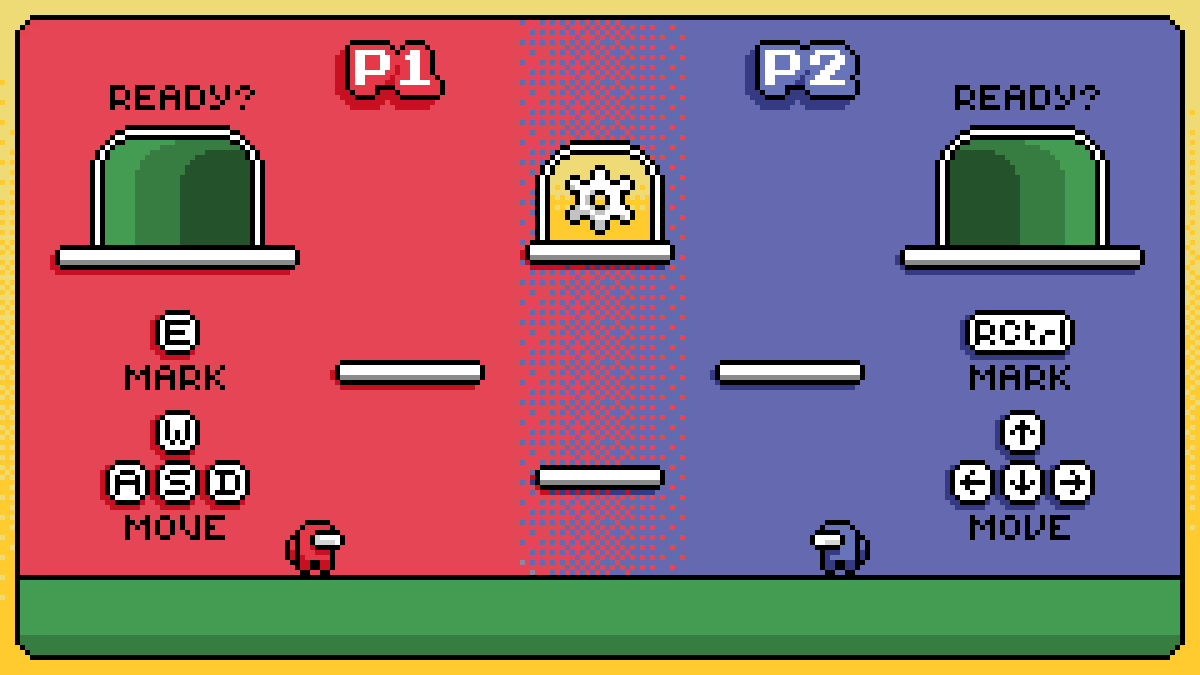
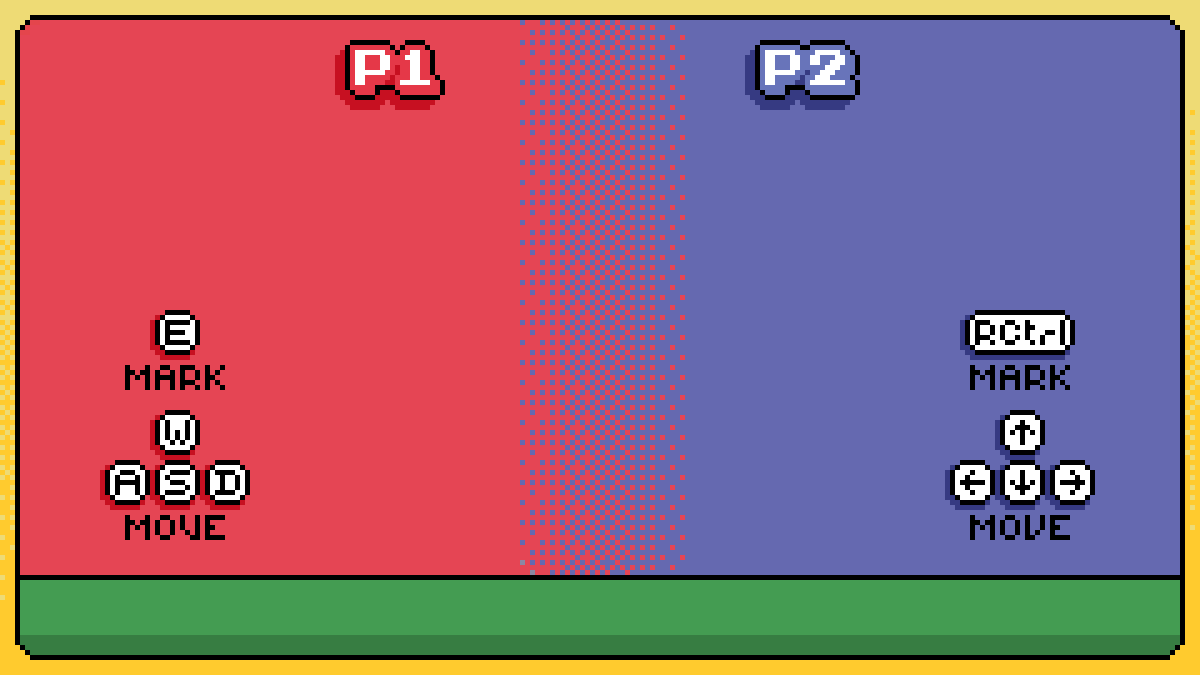
New Version with smaller dimensions

diff --git a/TicTacToe.py b/TicTacToe.py
@@ -8,16 +8,16 @@ import os
 pygame.init()
 
 # Set up the game window
-width, height = 1920, 1080
+width, height = 1200, 675
 screen = pygame.display.set_mode((width, height))
 pygame.display.set_caption("Up You Go! Xs and Os - Tic Tac Toe")
 
 FPS = 60
-PLAYER_VEL = 7
+PLAYER_VEL = 4
 
 
 class Player1(pygame.sprite.Sprite):
-    GRAVITY = 1.2
+    GRAVITY = 1
 
     def __init__(self, x, y, width, height):
         super().__init__()
@@ -47,7 +47,7 @@ class Player1(pygame.sprite.Sprite):
             self.direction = "right"
 
     def jump(self):
-        self.y_vel = -self.GRAVITY * 10
+        self.y_vel = -self.GRAVITY * 7
         self.jump_count += 1
         if self.jump_count == 1:
             self.fall_count = 0
@@ -63,9 +63,7 @@ class Player1(pygame.sprite.Sprite):
         self.update()
 
     def update(self):
-        self.image = pygame.image.load("redplayer.png").convert_alpha()
-        self.image = pygame.transform.scale(
-            self.image, (self.width, self.height))
+        self.image = pygame.image.load(join("Images", "Items", "p1.png")).convert_alpha()
         if self.direction == "left":
             self.image = pygame.transform.flip(self.image, True, False)
 
@@ -86,7 +84,7 @@ class Player1(pygame.sprite.Sprite):
 
 
 class Player2(pygame.sprite.Sprite):
-    GRAVITY = 1.2
+    GRAVITY = 1
 
     def __init__(self, x, y, width, height):
         super().__init__()
@@ -116,7 +114,7 @@ class Player2(pygame.sprite.Sprite):
             self.direction = "right"
 
     def jump(self):
-        self.y_vel = -self.GRAVITY * 10
+        self.y_vel = -self.GRAVITY * 7
         self.jump_count += 1
         if self.jump_count == 1:
             self.fall_count = 0
@@ -132,9 +130,7 @@ class Player2(pygame.sprite.Sprite):
         self.update()
 
     def update(self):
-        self.image = pygame.image.load("blueplayer.png").convert_alpha()
-        self.image = pygame.transform.scale(
-            self.image, (self.width, self.height))
+        self.image = pygame.image.load(join("Images", "Items", "p2.png")).convert_alpha()
         if self.direction == "right":
             self.image = pygame.transform.flip(self.image, True, False)
 
@@ -160,7 +156,7 @@ class object(pygame.sprite.Sprite):
         self.name = name
         self.rect = pygame.Rect(x, y, width, height)
         self.image = pygame.image.load(
-            join("Images", "Lobby", self.name)).convert_alpha()
+            join("Images", "Items", self.name)).convert_alpha()
         self.width = width
         self.height = height
         self.mask = pygame.mask.from_surface(self.image)
@@ -176,7 +172,7 @@ class platform(pygame.sprite.Sprite):
         super().__init__()
         self.name = name
         self.image = pygame.image.load(
-            join("Images", "game", self.name)).convert_alpha()
+            join("Images", "Items", self.name)).convert_alpha()
         self.rect = self.image.get_rect(topleft=(x, y))
         self.mask = pygame.mask.from_surface(self.image)
 
@@ -188,7 +184,7 @@ class grid(pygame.sprite.Sprite):
     def __init__(self, x, y):
         super().__init__()
         self.image = pygame.image.load(
-            join("Images", "game", "white_grid.png")).convert_alpha()
+            join("Images", "Items", "white.png")).convert_alpha()
         self.rect = self.image.get_rect(center=(x, y))
         self.slot = False
         self.chosen = False
@@ -198,16 +194,16 @@ class grid(pygame.sprite.Sprite):
         if self.slot:
             if self.state == "red":
                 self.image = pygame.image.load(
-                    join("Images", "game", "1.png")).convert_alpha()
+                    join("Images", "Items", "X.png")).convert_alpha()
             elif self.state == "blue":
                 self.image = pygame.image.load(
-                    join("Images", "game", "0.png")).convert_alpha()
+                    join("Images", "Items", "O.png")).convert_alpha()
         elif self.chosen:
             self.image = pygame.image.load(
-                join("Images", "game", "green_grid.png")).convert_alpha()
+                join("Images", "Items", "green.png")).convert_alpha()
         else:
             self.image = pygame.image.load(
-                join("Images", "game", "white_grid.png")).convert_alpha()
+                join("Images", "Items", "white.png")).convert_alpha()
 
         self.mask = pygame.mask.from_surface(self.image)
 
@@ -296,9 +292,9 @@ def handle_move2(p2, objects):
 
 
 def random_platform():
-    xcoords = [544, 712, 880, 1048, 1216]
-    ycoordsbot = [279, 447, 615, 783, 951]
-    ycoordstop = [120, 288, 456, 624,]
+    xcoords = [340, 445, 550, 655, 760]
+    ycoordsbot = [174, 279, 384, 489, 594]
+    ycoordstop = [75, 180, 285, 390]
 
     x_values = []
     y_values = []
@@ -320,24 +316,24 @@ def random_platform():
         x_values.append(x)
         y_values.append(y)
 
-    platform1 = platform("FLATFORM.png", x_values[0] - 22, y_values[0] - 13)
-    platform2 = platform("FLATFORM.png", x_values[1] - 22, y_values[0] - 13)
-    platform3 = platform("FLATFORM.png", x_values[2] - 22, y_values[1] - 13)
-    platform4 = platform("FLATFORM.png", x_values[3] - 22, y_values[1] - 13)
-    platform5 = platform("FLATFORM.png", x_values[4] - 22, y_values[2] - 13)
-    platform6 = platform("FLATFORM.png", x_values[5] - 22, y_values[2] - 13)
-    platform7 = platform("FLATFORM.png", x_values[6] - 22, y_values[3] - 13)
-    platform8 = platform("FLATFORM.png", x_values[7] - 22, y_values[3] - 13)
-    platform9 = platform("FLATFORM.png", x_values[8] - 22, y_values[4] - 13)
-    platform10 = platform("FLATFORM.png", x_values[9] - 22, y_values[4] - 13)
-    platform11 = platform("Vertical_Platforms.png",
-                          x_values[10] - 24, y_values[5] - 16)
-    platform12 = platform("Vertical_Platforms.png",
-                          x_values[11] - 24, y_values[6] - 16)
-    platform13 = platform("Vertical_Platforms.png",
-                          x_values[12] - 24, y_values[7] - 16)
-    platform14 = platform("Vertical_Platforms.png",
-                          x_values[13] - 24, y_values[8] - 16)
+    platform1 = platform("platform.png", x_values[0] - 10, y_values[0] - 9)
+    platform2 = platform("platform.png", x_values[1] - 10, y_values[0] - 9)
+    platform3 = platform("platform.png", x_values[2] - 10, y_values[1] - 9)
+    platform4 = platform("platform.png", x_values[3] - 10, y_values[1] - 9)
+    platform5 = platform("platform.png", x_values[4] - 10, y_values[2] - 9)
+    platform6 = platform("platform.png", x_values[5] - 10, y_values[2] - 9)
+    platform7 = platform("platform.png", x_values[6] - 10, y_values[3] - 9)
+    platform8 = platform("platform.png", x_values[7] - 10, y_values[3] - 9)
+    platform9 = platform("platform.png", x_values[8] - 10, y_values[4] - 9)
+    platform10 = platform("platform.png", x_values[9] - 10, y_values[4] - 9)
+    platform11 = platform("platform1.png",
+                          x_values[10] - 15, y_values[5] - 10)
+    platform12 = platform("platform1.png",
+                          x_values[11] - 15, y_values[6] - 10)
+    platform13 = platform("platform1.png",
+                          x_values[12] - 15, y_values[7] - 10)
+    platform14 = platform("platform1.png",
+                          x_values[13] - 15, y_values[8] - 10)
 
     game_platforms = [platform1, platform2, platform3, platform4, platform5, platform6,
                       platform7, platform8, platform9, platform10, platform11, platform12, platform13, platform14]
@@ -345,8 +341,8 @@ def random_platform():
 
 
 def grid_init():
-    xcoords = [544+80, 712+80, 880+80, 1048+80, 1216+80]
-    ycoords = [120+80, 288+80, 456+80, 624+80, 792+80]
+    xcoords = [340+48, 445+48, 550+48, 655+48, 760+48]
+    ycoords = [75+50, 180+50, 285+50, 390+50, 495+50]
     grids = []
 
     for x in xcoords:
@@ -411,40 +407,37 @@ def check_winner(grids):
     
 
 def Intro():
-    cube = pygame.image.load(join("Images", "Backgrounds", "splash1.png")).convert()
-    rect = cube.get_rect(center = (960, 540))
+    cube = pygame.image.load(join("Images", "Backgrounds", "cube.png")).convert_alpha()
+    rect = cube.get_rect(center = (600, 338))
     screen.blit(cube, rect)
     pygame.display.flip()
     pygame.time.wait(1500)
 
-    riverbytes = pygame.image.load(join("Images", "Backgrounds", "splash2.png")).convert()
-    rect2 = riverbytes.get_rect(center = (960, 540))
-    screen.blit(riverbytes, rect2)
+    riverbytes = pygame.image.load(join("Images", "Backgrounds", "splash.png")).convert()
+    screen.blit(riverbytes, (0,0))
     pygame.display.flip()
     pygame.time.wait(1500)
 
-    homescrn = pygame.image.load(
-        "Images\Backgrounds\Starting_Screen.png").convert()
+    homescrn = pygame.image.load(join("Images", "Backgrounds", "start.png")).convert()
     homescrn = pygame.transform.scale(homescrn, (width, height))
     screen.blit(homescrn, (0, 0))
     pygame.display.flip()
 
 
 def draw_lobby(p1, p2, platforms):
-    lobby = pygame.image.load("Images\Backgrounds\lobby1.png").convert()
+    lobby = pygame.image.load(join("Images", "Backgrounds", "lobby.png")).convert()
     lobby = pygame.transform.scale(lobby, (width, height))
     screen.blit(lobby, (0, 0))
 
-    rdy = pygame.image.load(join("Images", "Lobby", "rdy.png")).convert_alpha()
-    rdy = pygame.transform.scale(rdy, (216, 40))
+    rdy = pygame.image.load(join("Images", "Items", "ready.png")).convert_alpha()
 
     for plat in platforms:
         plat.draw()
 
     if p1.ready:
-        screen.blit(rdy, (176, 136))
+        screen.blit(rdy, (110, 85))
     if p2.ready:
-        screen.blit(rdy, (1528, 136))
+        screen.blit(rdy, (955, 85))
 
     p1.draw()
     p2.draw()
@@ -453,10 +446,10 @@ def draw_lobby(p1, p2, platforms):
 
 
 def lobby(p1, p2, objects, platforms, door1, door2):
-    p1.rect.x = 456
-    p1.rect.y = 832
-    p2.rect.x = 1000
-    p2.rect.y = 832
+    p1.rect.x = 285
+    p1.rect.y = 520
+    p2.rect.x = 810
+    p2.rect.y = 520
     while not (p1.ready) or not (p2.ready):
 
         for event in pygame.event.get():
@@ -481,7 +474,7 @@ def lobby(p1, p2, objects, platforms, door1, door2):
 
 
 def draw_game(p1, p2, platforms, grids):
-    game_bg = pygame.image.load("Images\Backgrounds\gamebg.png").convert()
+    game_bg = pygame.image.load(join("Images", "Backgrounds", "gamebg.png")).convert()
     game_bg = pygame.transform.scale(game_bg, (width, height))
     screen.blit(game_bg, (0, 0))
 
@@ -497,15 +490,15 @@ def draw_game(p1, p2, platforms, grids):
     pygame.display.update()
 
 def main_game(p1, p2):
-    p1.rect.x = 180
-    p1.rect.y = 850
-    p2.rect.x = 1614
-    p2.rect.y = 850
+    p1.rect.x = 110
+    p1.rect.y = 550
+    p2.rect.x = 1090
+    p2.rect.y = 550
     platforms = random_platform()
 
-    floor_game = pygame.Rect(0, 1048, 1920, 32)
-    wall_game = pygame.Rect(31, 0, 1, 1080)
-    wall2_game = pygame.Rect(1888, 0, 1, 1080)
+    floor_game = pygame.Rect(0, 655, 1200, 20)
+    wall_game = pygame.Rect(29, 0, 1, 675)
+    wall2_game = pygame.Rect(1170, 0, 1, 675)
     game_objects = [floor_game, wall_game, wall2_game]
 
     grids = grid_init()
@@ -553,11 +546,11 @@ def main_game(p1, p2):
         full_grids = grid_check(grids, p1, p2)
         draw_game(p1, p2, platforms, grids)
         if check_winner(grids):
-            if p1.turn:
+            if p2.turn:
                 p1win = pygame.image.load(join("Images", "Backgrounds", "p1win.png")).convert()
                 screen.blit(p1win, (0,0))
                 pygame.display.flip()
-            if p2.turn:
+            if p1.turn:
                 p2win = pygame.image.load(join("Images", "Backgrounds", "p2win.png")).convert()
                 screen.blit(p2win, (0,0))
                 pygame.display.flip()
@@ -577,22 +570,22 @@ def main(screen):
     clock = pygame.time.Clock()
     Intro()
 
-    p1 = Player1(456, 832, 96, 88)
-    p2 = Player2(1000, 832, 96, 88)
+    p1 = Player1(285, 520, 60, 55)
+    p2 = Player2(810, 520, 60, 55)
 
-    platform1 = object(856, 744, 206, 39, "platform.png")
-    platform2 = object(536, 576, 238, 39, "platform.png")
-    platform3 = object(1144, 576, 238, 39, "platform.png")
-    platform4 = object(88, 392, 391, 39, "platform.png")
-    platform5 = object(840, 384, 239, 39, "platform.png")
-    platform6 = object(1440, 392, 391, 39, "platform.png")
+    platform1 = object(535, 465, 129, 24, "lobplatform.png")
+    platform2 = object(335, 360, 149, 24, "lobplatform.png")
+    platform3 = object(715, 360, 149, 24, "lobplatform.png")
+    platform4 = object(55, 245, 244, 24, "lobplatform.png")
+    platform5 = object(525, 240, 149, 24, "lobplatform.png")
+    platform6 = object(900, 245, 244, 24, "lobplatform.png")
 
-    floor = pygame.Rect(0, 920, 1920, 160)
-    wall = pygame.Rect(24, 0, 1, 1080)
-    wall2 = pygame.Rect(1897, 0, 1, 1080)
+    floor = pygame.Rect(0, 575, 1200, 100)
+    wall = pygame.Rect(19, 0, 1, 675)
+    wall2 = pygame.Rect(1180, 0, 1, 675)
 
-    door1 = object(88, 199, 391, 231, "reddoor.png")
-    door2 = object(1440, 200, 391, 231, "bluedoor.png")
+    door1 = object(55, 125, 245, 145, "p1door.png")
+    door2 = object(900, 125, 245, 145, "p2door.png")
 
     objects = [floor, wall, wall2, platform1.rect, platform2.rect,
                platform3.rect, platform4.rect, platform5.rect, platform6.rect]
